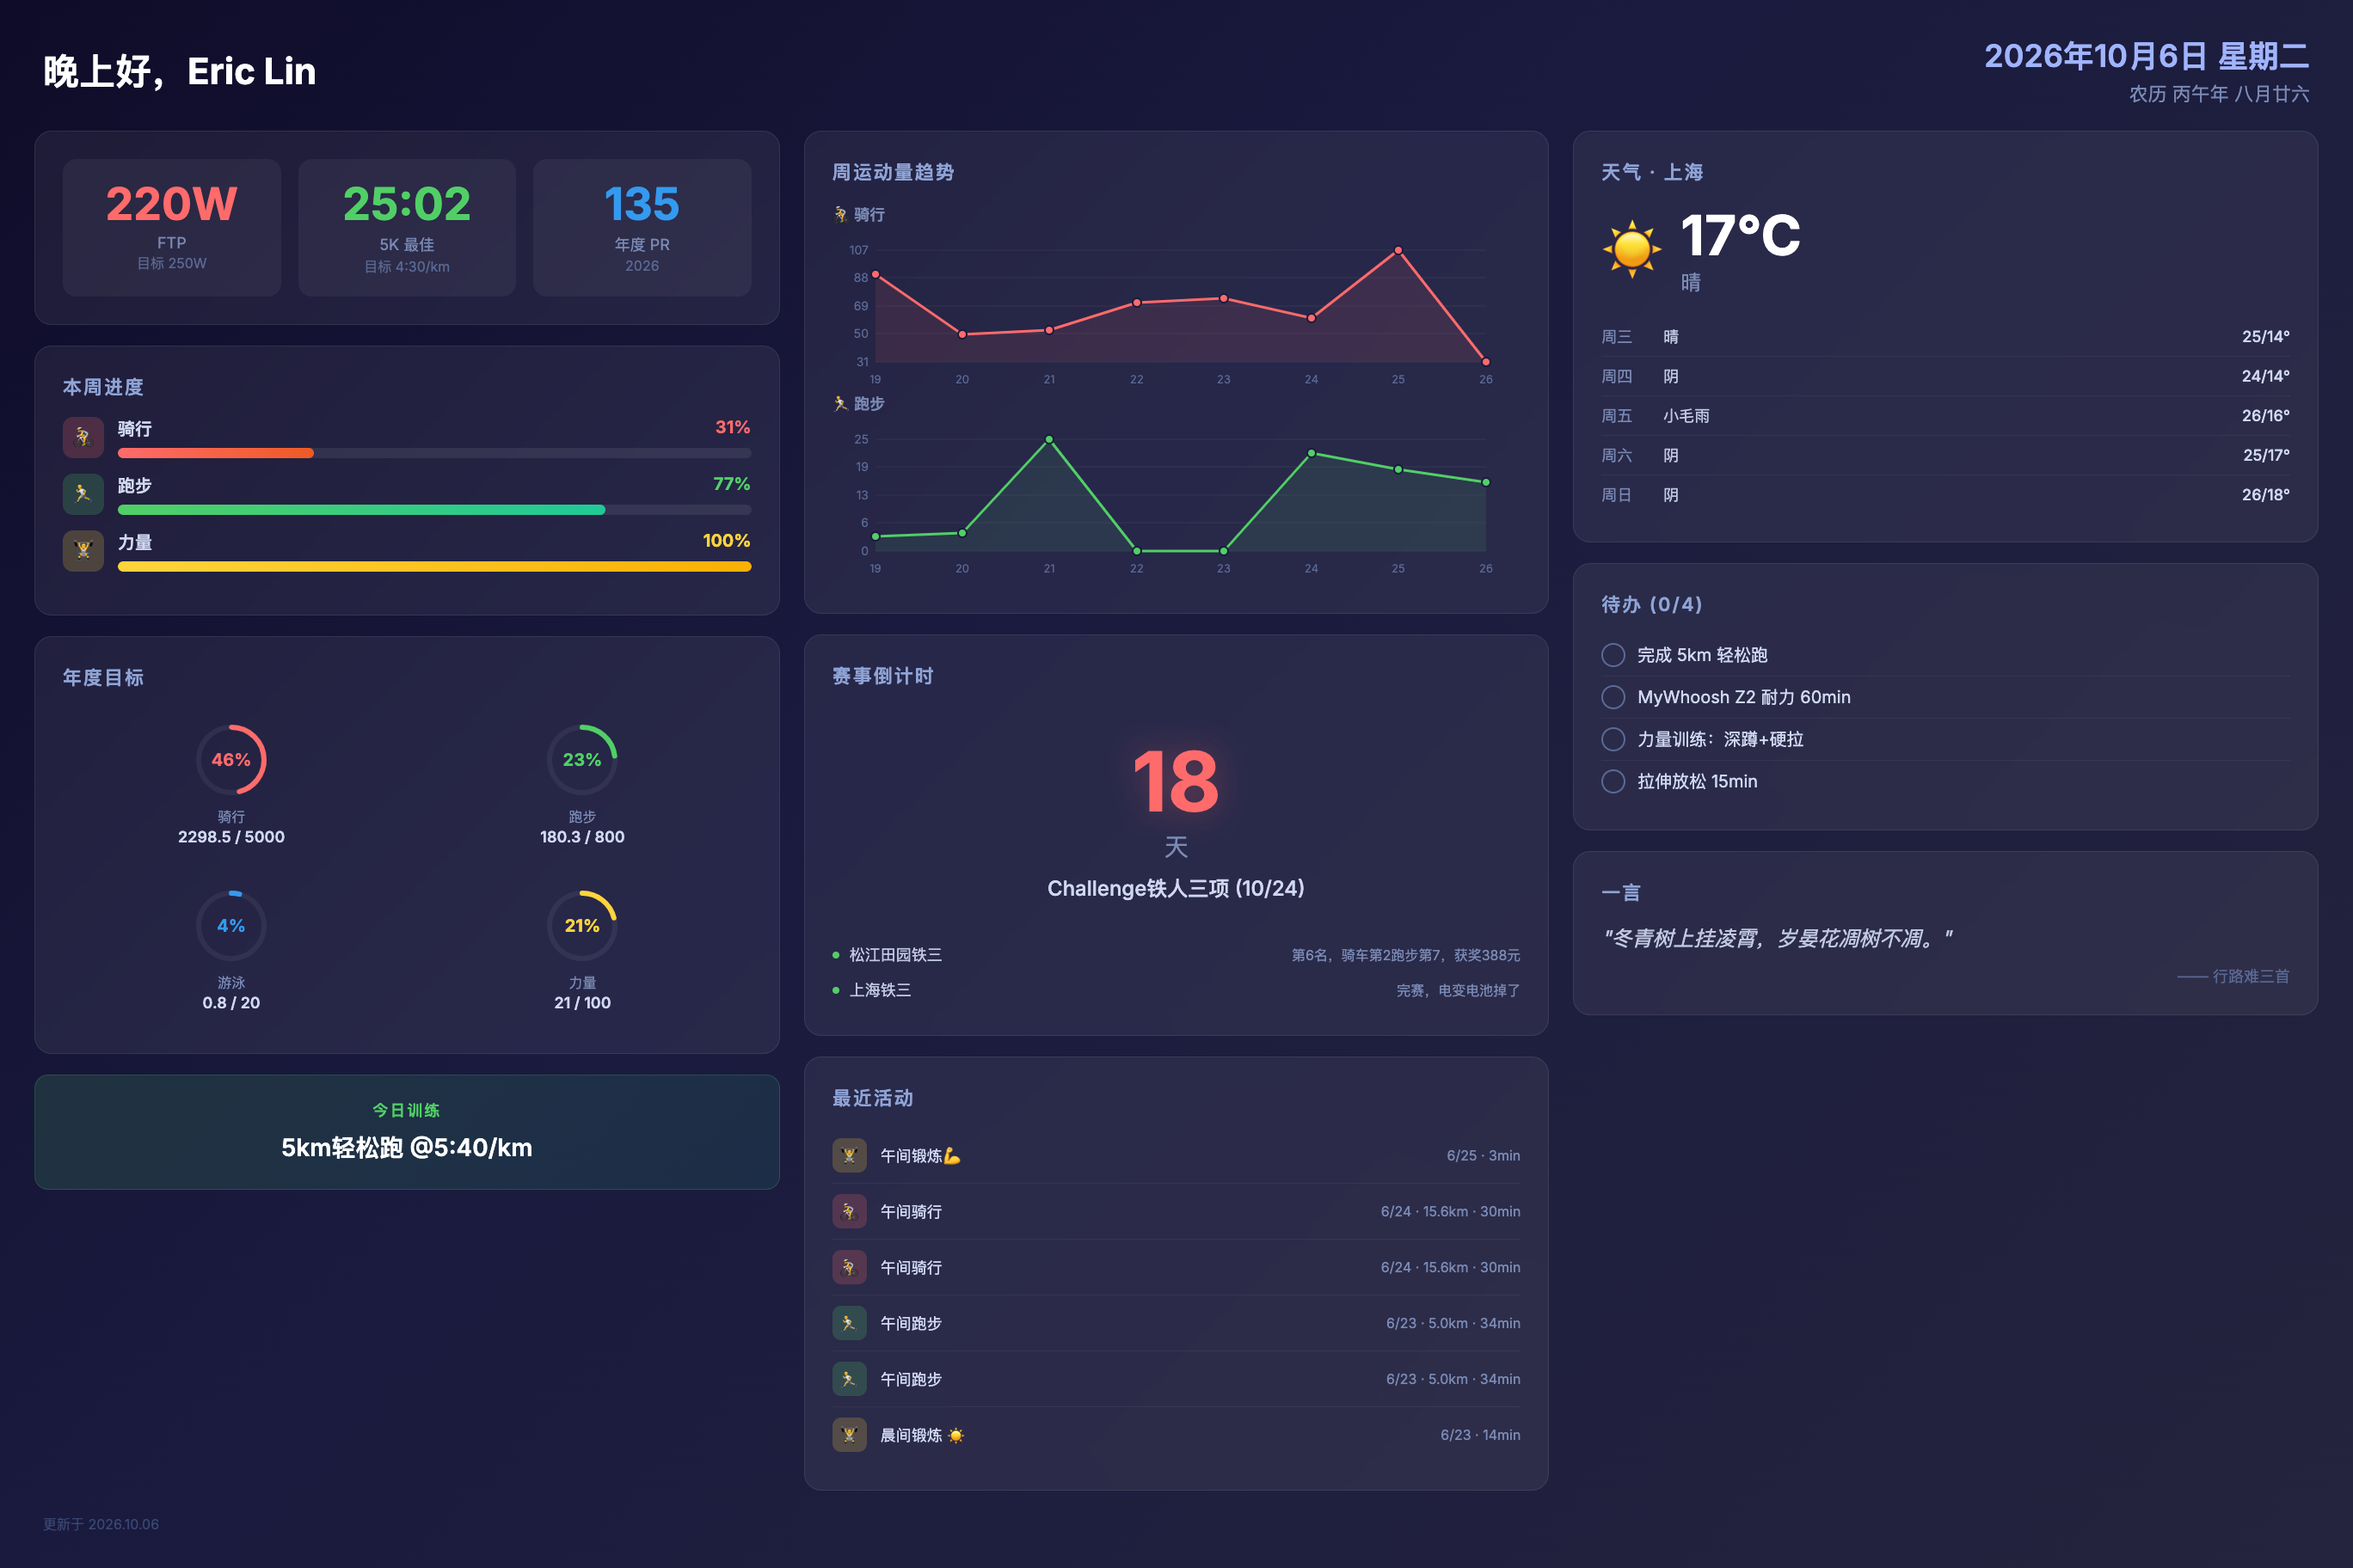
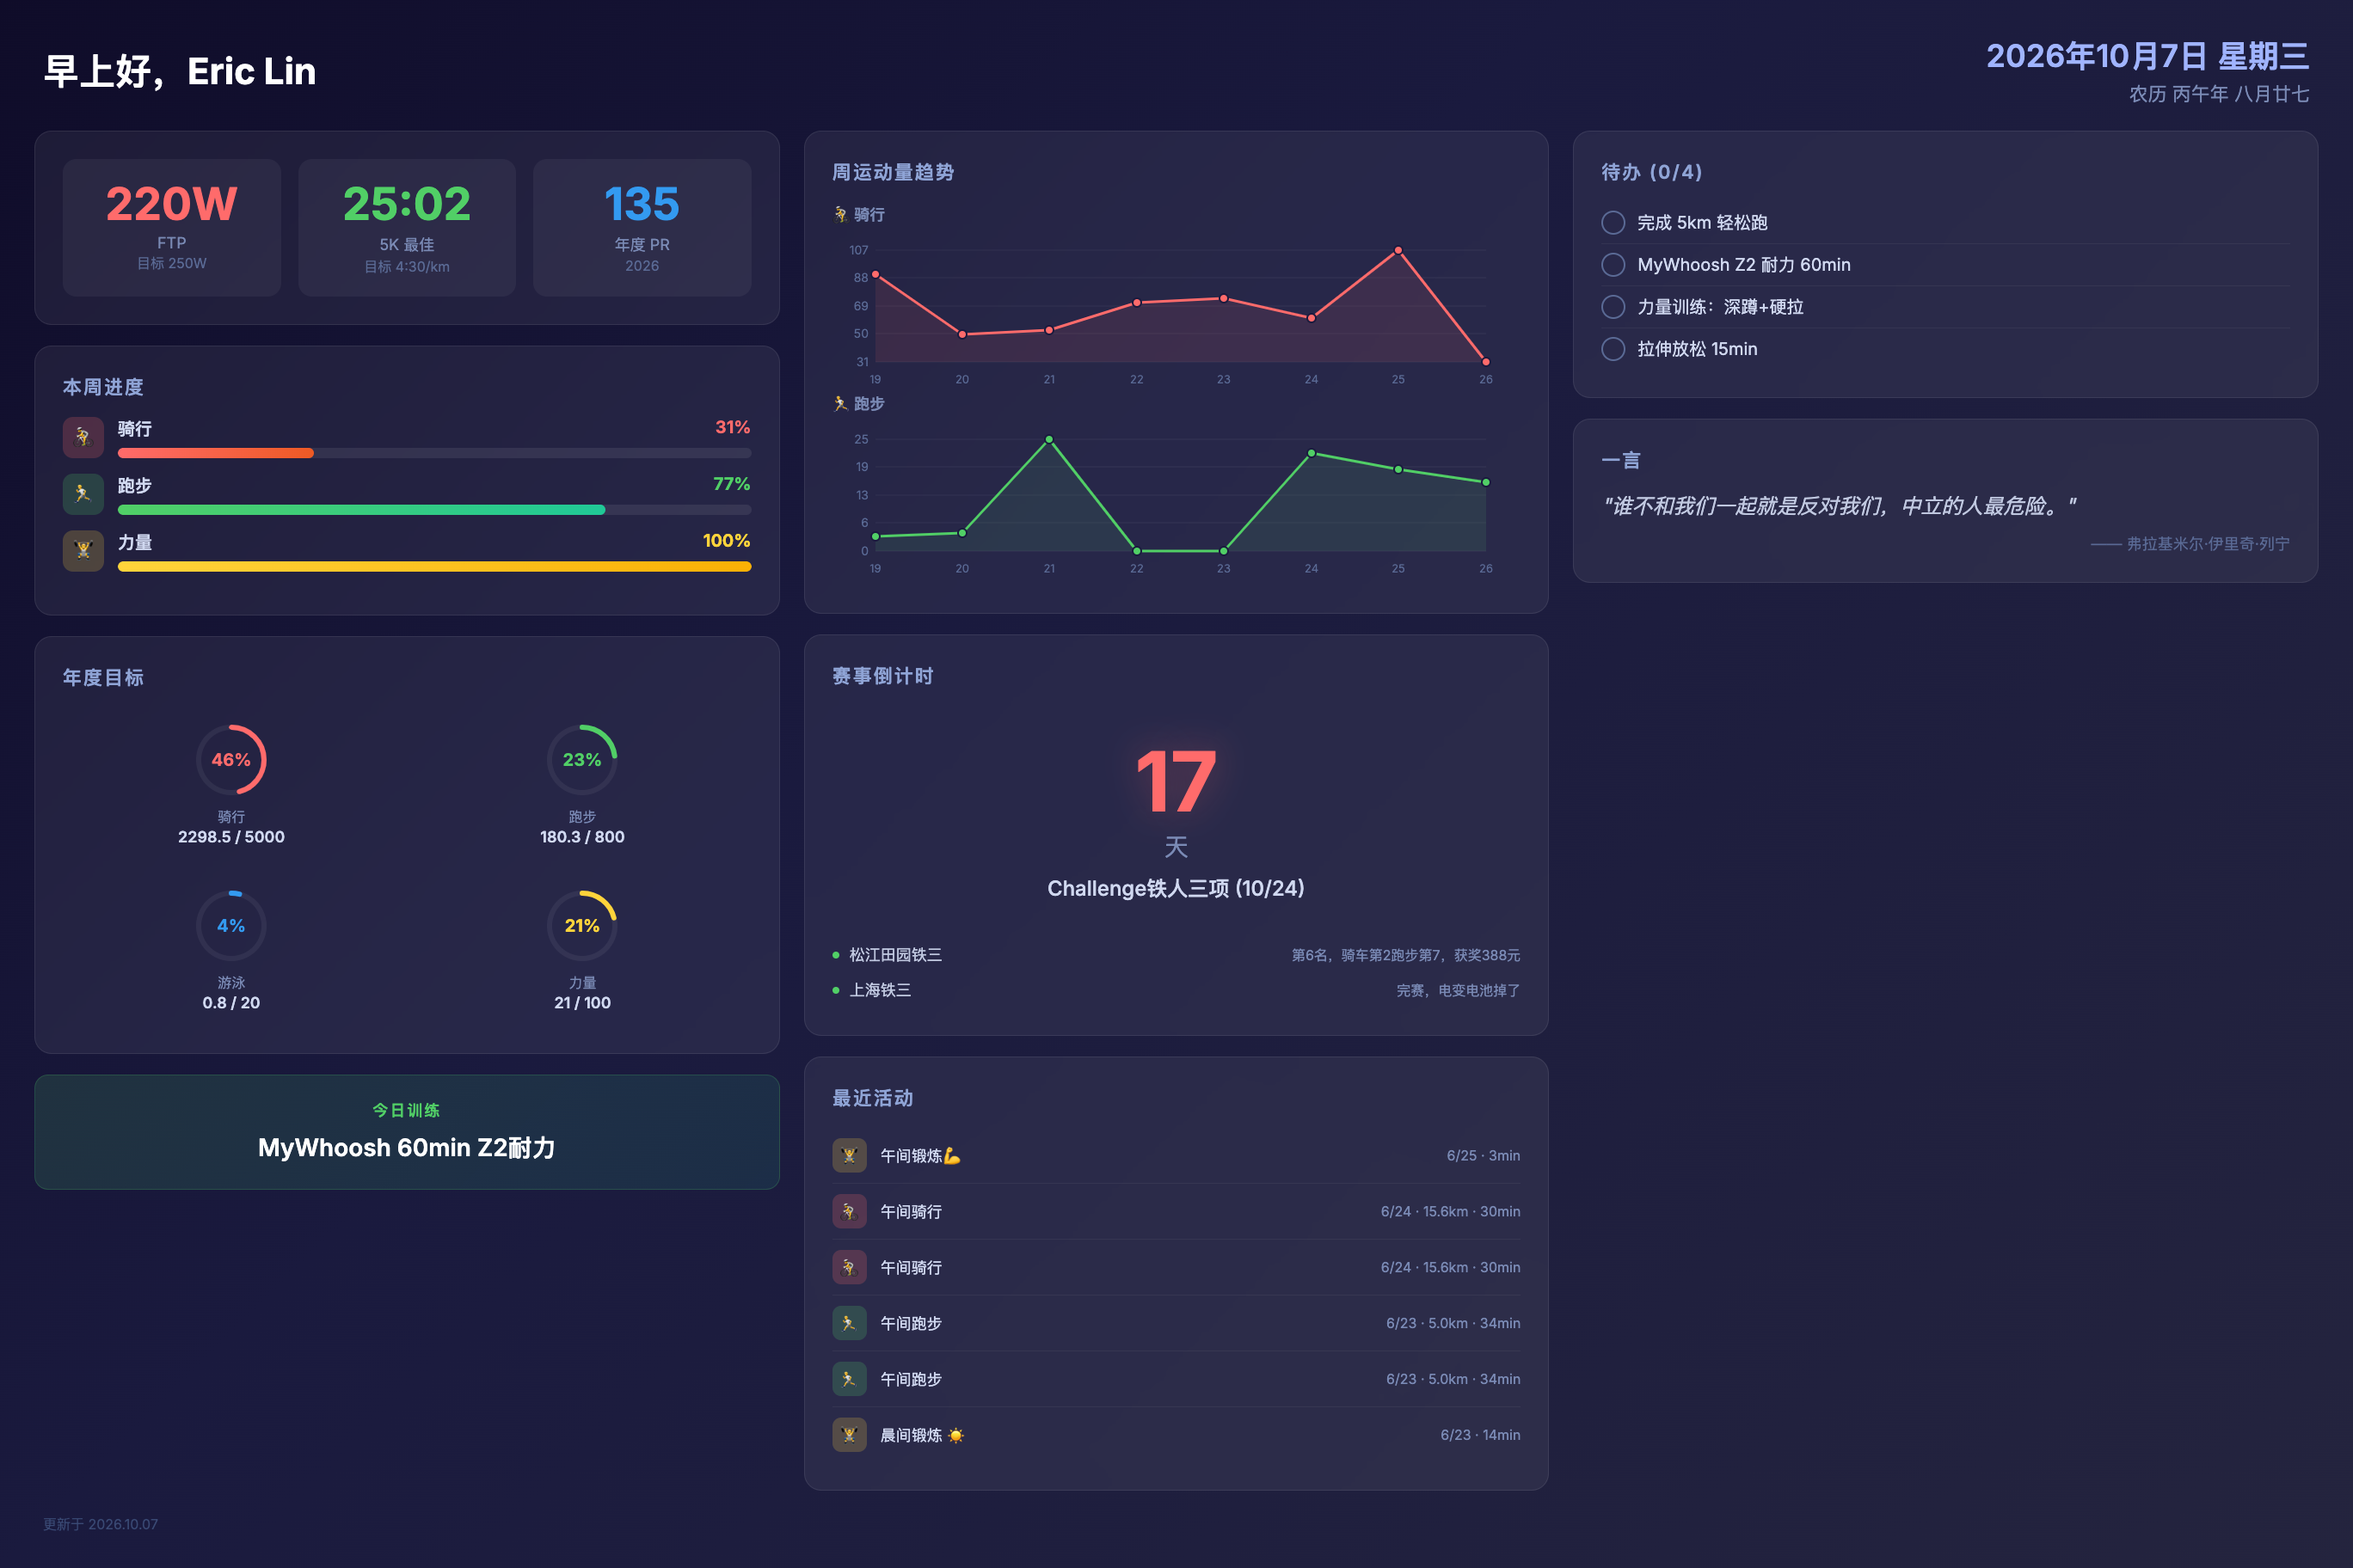
deploy: 2026-10-07-07:00

diff --git a/screensaver.html b/screensaver.html
@@ -490,13 +490,13 @@ html, body {
 <!-- ===== TOP BAR ===== -->
 <div class="top-bar">
   <div>
-    <div class="greeting">晚上好，Eric Lin</div>
+    <div class="greeting">早上好，Eric Lin</div>
     
   </div>
   <div class="date-info">
-    <div class="solar-date">2026年10月6日 星期二</div>
+    <div class="solar-date">2026年10月7日 星期三</div>
     
-    <div class="lunar-date">农历 丙午年 八月廿六</div>
+    <div class="lunar-date">农历 丙午年 八月廿七</div>
     
   </div>
 </div>
@@ -638,7 +638,7 @@ html, body {
   
   <div class="ai-today-card">
     <div class="ai-today-label">今日训练</div>
-    <div class="ai-today-text">5km轻松跑 @5:40/km</div>
+    <div class="ai-today-text">MyWhoosh 60min Z2耐力</div>
   </div>
   
 
@@ -732,7 +732,7 @@ html, body {
   <div class="card">
     <div class="card-title">赛事倒计时</div>
     <div class="race-countdown">
-      <div class="countdown-number">18</div>
+      <div class="countdown-number">17</div>
       <div class="countdown-unit">天</div>
       <div class="countdown-name">Challenge铁人三项 (10/24)</div>
     </div>
@@ -805,56 +805,6 @@ html, body {
 
   <!-- Weather -->
   
-  <div class="card">
-    <div class="card-title">天气 · 上海</div>
-    <div class="weather-current">
-      <div class="weather-icon-big">☀</div>
-      <div>
-        <div class="weather-temp-big">17°C</div>
-        <div class="weather-desc">晴</div>
-      </div>
-    </div>
-    
-    
-    <div class="forecast-row">
-      <div class="forecast-day">周三</div>
-      <div class="forecast-desc">晴</div>
-      <div class="forecast-precip"></div>
-      <div class="forecast-range">25/14°</div>
-    </div>
-    
-    <div class="forecast-row">
-      <div class="forecast-day">周四</div>
-      <div class="forecast-desc">阴</div>
-      <div class="forecast-precip"></div>
-      <div class="forecast-range">24/14°</div>
-    </div>
-    
-    <div class="forecast-row">
-      <div class="forecast-day">周五</div>
-      <div class="forecast-desc">小毛雨</div>
-      <div class="forecast-precip"></div>
-      <div class="forecast-range">26/16°</div>
-    </div>
-    
-    <div class="forecast-row">
-      <div class="forecast-day">周六</div>
-      <div class="forecast-desc">阴</div>
-      <div class="forecast-precip"></div>
-      <div class="forecast-range">25/17°</div>
-    </div>
-    
-    <div class="forecast-row">
-      <div class="forecast-day">周日</div>
-      <div class="forecast-desc">阴</div>
-      <div class="forecast-precip"></div>
-      <div class="forecast-range">26/18°</div>
-    </div>
-    
-    
-    
-  </div>
-  
 
   <!-- Todos -->
   
@@ -900,9 +850,9 @@ html, body {
   
   <div class="card">
     <div class="card-title">一言</div>
-    <div class="quote-text">"冬青树上挂凌霄，岁晏花凋树不凋。"</div>
+    <div class="quote-text">"谁不和我们一起就是反对我们，中立的人最危险。"</div>
     
-    <div class="quote-from">—— 行路难三首</div>
+    <div class="quote-from">—— 弗拉基米尔·伊里奇·列宁</div>
     
   </div>
   
@@ -911,7 +861,7 @@ html, body {
 
 <!-- ===== BOTTOM BAR ===== -->
 <div class="bottom-bar">
-  <div class="update-time">更新于 2026.10.06</div>
+  <div class="update-time">更新于 2026.10.07</div>
 </div>
 
 </div>

diff --git a/life.html b/life.html
@@ -89,7 +89,7 @@ html, body {
 <table class="header-table">
   <tr>
     <td class="header-left">生活</td>
-    <td class="header-right">2026.10.06</td>
+    <td class="header-right">2026.10.07</td>
   </tr>
 </table>
 
@@ -133,82 +133,16 @@ html, body {
 
 <!-- ===== 天气 ===== -->
 
-<div class="box">
-  <p class="section-title">☀ 天气 · 上海</p>
-  <table class="weather-table">
-    <tr>
-      <td class="weather-icon">*</td>
-      <td class="weather-temp">17°C</td>
-      <td class="weather-desc">晴</td>
-    </tr>
-  </table>
-  
-  <table class="forecast-table">
-    
-    <tr>
-      <td class="forecast-day">周三</td>
-      <td class="forecast-icon">*</td>
-      <td>晴</td>
-      <td class="forecast-range">25/14°C</td>
-    </tr>
-    
-    <tr>
-      <td class="forecast-day">周四</td>
-      <td class="forecast-icon">~</td>
-      <td>阴</td>
-      <td class="forecast-range">24/14°C</td>
-    </tr>
-    
-    <tr>
-      <td class="forecast-day">周五</td>
-      <td class="forecast-icon">.</td>
-      <td>小毛雨</td>
-      <td class="forecast-range">26/16°C</td>
-    </tr>
-    
-    <tr>
-      <td class="forecast-day">周六</td>
-      <td class="forecast-icon">~</td>
-      <td>阴</td>
-      <td class="forecast-range">25/17°C</td>
-    </tr>
-    
-    <tr>
-      <td class="forecast-day">周日</td>
-      <td class="forecast-icon">~</td>
-      <td>阴</td>
-      <td class="forecast-range">26/18°C</td>
-    </tr>
-    
-    <tr>
-      <td class="forecast-day">周一</td>
-      <td class="forecast-icon">~</td>
-      <td>多云</td>
-      <td class="forecast-range">26/17°C</td>
-    </tr>
-    
-    <tr>
-      <td class="forecast-day">周二</td>
-      <td class="forecast-icon">~</td>
-      <td>阴</td>
-      <td class="forecast-range">27/18°C</td>
-    </tr>
-    
-  </table>
-  
-  
-</div>
-
 
 <!-- ===== 今日 ===== -->
 <div class="box">
   <p class="section-title">📅 今日</p>
   <table class="data-table">
     <tr>
-      <td>2026年10月6日 星期一</td>
+      <td>2026年10月7日 星期二</td>
     </tr>
     <tr>
-      <td>农历丙午年 八月廿六</td>
+      <td>农历丙午年 八月廿七</td>
     </tr>
   </table>
 </div>
@@ -259,9 +193,9 @@ html, body {
 
 <div class="box">
   <p class="section-title">💬 一言</p>
-  <p class="quote-text">冬青树上挂凌霄，岁晏花凋树不凋。</p>
+  <p class="quote-text">谁不和我们一起就是反对我们，中立的人最危险。</p>
   
-  <p class="quote-from">—— 行路难三首</p>
+  <p class="quote-from">—— 弗拉基米尔·伊里奇·列宁</p>
   
 </div>
 

diff --git a/index.html b/index.html
@@ -74,7 +74,7 @@ html, body {
 <table class="header-table">
   <tr>
     <td class="header-left">Eric Lin · 运动</td>
-    <td class="header-right">2026.10.06</td>
+    <td class="header-right">2026.10.07</td>
   </tr>
 </table>
 
@@ -225,17 +225,10 @@ html, body {
 <div class="ai-plan">
   <div class="ai-plan-title">AI 训练建议</div>
   
-  <div class="ai-today">今日: 阈值训练 3×8min @260W</div>
+  <div class="ai-today">今日: 轻松跑 5km</div>
   
   
   <table class="ai-weekly">
-    
-    <tr>
-      <td class="day">周二</td>
-      
-      <td>阈值训练 3×8min @260W</td>
-      
-    </tr>
     
     <tr>
       <td class="day">周三</td>
@@ -279,6 +272,13 @@ html, body {
       
     </tr>
     
+    <tr>
+      <td class="day">周二</td>
+      
+      <td>阈值训练 3×8min @260W</td>
+      
+    </tr>
+    
   </table>
   
   
@@ -293,7 +293,7 @@ html, body {
   <p class="section-title">即将到来</p>
   
   <div class="countdown-box">
-    <div class="countdown-days">18</div>
+    <div class="countdown-days">17</div>
     <div class="countdown-label">距 Challenge铁人三项 (10/24)</div>
   </div>
   

diff --git a/work.html b/work.html
@@ -89,7 +89,7 @@ html, body {
 <table class="header-table">
   <tr>
     <td class="header-left">工作</td>
-    <td class="header-right">2026.10.06</td>
+    <td class="header-right">2026.10.07</td>
   </tr>
 </table>
 
